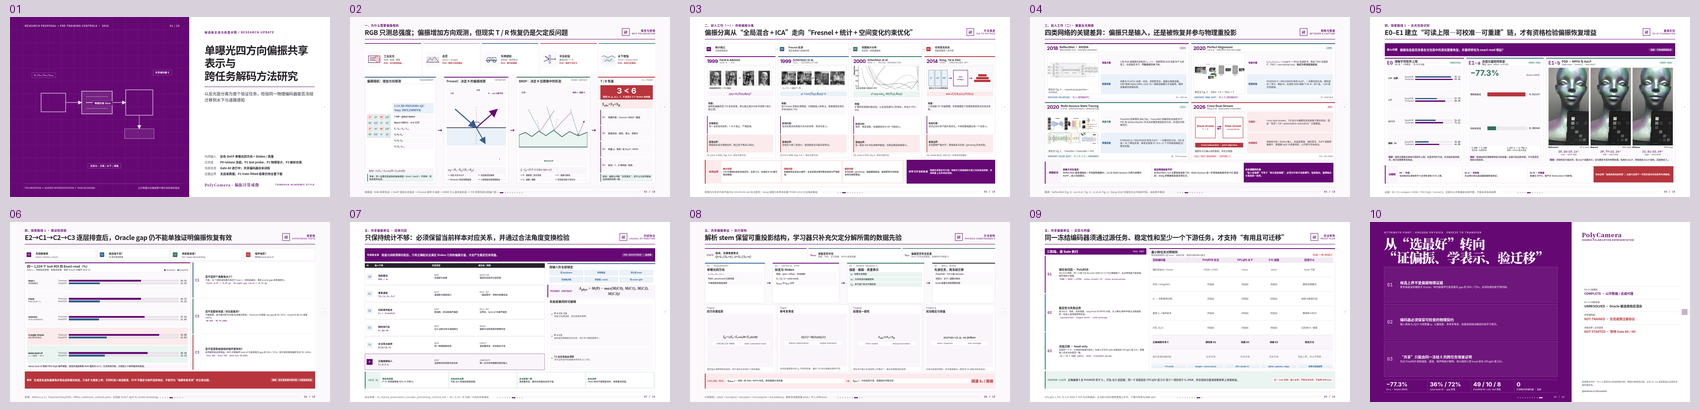
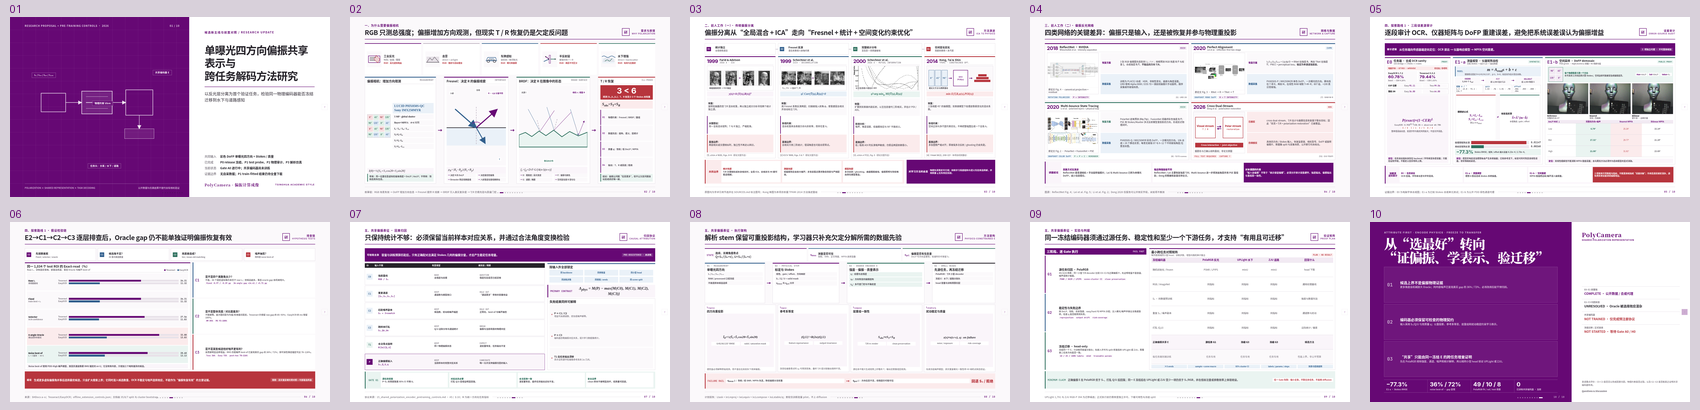
docs: reframe slide 5 as error audit

Changed region(s): [[0.8106, 0.1171, 0.9976, 0.439], [0.8106, 0.0585, 0.9976, 0.0878]]

diff --git a/demo/tsinghua-ppt/index.html b/demo/tsinghua-ppt/index.html
@@ -522,42 +522,83 @@
   .network-audit-item b{display:block;margin-bottom:.2vh;color:var(--accent);font-weight:800}
   .network-audit-item:last-child{background:var(--accent);color:#fff}.network-audit-item:last-child b{color:#fff}
 
-  /* 05 · 探索路线 1：E0–E1 基础链 */
-  .route1-foundation-layout{height:100%;display:grid;grid-template-columns:1fr;grid-template-rows:7.2vh minmax(0,1fr) 10.2vh;gap:.85vh}
-  .route1-question{display:grid;grid-template-columns:auto 1fr auto;gap:.75vw;align-items:center;padding:.72vh .72vw;background:var(--accent);color:#fff}
-  .route1-question strong{font:800 clamp(12px,.78vw,15px)/1.15 var(--mono);letter-spacing:.05em}
-  .route1-question span{font:700 clamp(14px,.92vw,18px)/1.3 var(--sans)}
+  /* 05 · 探索路线 1：任务端—仪器—DoFP 三段误差源审计 */
+  .route1-foundation-layout{height:100%;display:grid;grid-template-columns:1fr;grid-template-rows:6.9vh minmax(0,1fr) 9.8vh;gap:.82vh}
+  .route1-question{display:grid;grid-template-columns:auto 1fr auto;gap:.75vw;align-items:center;padding:.68vh .72vw;background:var(--accent);color:#fff}
+  .route1-question strong{font:800 clamp(11px,.73vw,14px)/1.15 var(--mono);letter-spacing:.05em}
+  .route1-question span{font:700 clamp(13px,.86vw,17px)/1.28 var(--sans)}
   .route1-question em{padding:.38vh .48vw;background:rgba(255,255,255,.14);font:750 clamp(10px,.66vw,12px)/1 var(--mono);font-style:normal;white-space:nowrap}
-  .route1-foundation-grid{min-height:0;display:grid;grid-template-columns:.92fr .9fr 1.5fr;gap:.72vw}
-  .foundation-card{min-height:0;display:grid;grid-template-rows:auto minmax(0,1fr) auto;gap:.55vh;padding:.72vh .65vw;border:1px solid var(--line);border-top:4px solid var(--accent);background:#fff}
+  .route1-foundation-grid{min-height:0;display:grid;grid-template-columns:.82fr 1.12fr 1.62fr;gap:.7vw}
+  .foundation-card{min-height:0;display:grid;grid-template-rows:auto minmax(0,1fr) auto;gap:.48vh;padding:.66vh .6vw;border:1px solid var(--line);border-top:4px solid var(--accent);background:#fff}
   .foundation-card:nth-child(2){border-top-color:var(--info)}.foundation-card:nth-child(3){border-top-color:var(--success)}
-  .foundation-head{display:grid;grid-template-columns:auto 1fr auto;gap:.5vw;align-items:center;padding-bottom:.42vh;border-bottom:1px solid var(--line)}
-  .foundation-head .id{color:var(--accent);font:800 clamp(21px,1.55vw,30px)/1 var(--mono)}
-  .foundation-head h2{font:750 clamp(14px,.9vw,18px)/1.15 var(--sans)}
-  .foundation-head p{margin-top:.18vh;color:var(--muted);font:650 clamp(9px,.61vw,11px)/1.15 var(--sans)}
-  .foundation-head .state{padding:.34vh .42vw;background:var(--success-soft);color:var(--success);font:800 clamp(9px,.59vw,11px)/1 var(--mono);white-space:nowrap}
-  .foundation-body{min-height:0;display:grid;align-content:stretch;gap:.52vh}
-  .mini-format-list{display:grid;grid-template-rows:repeat(4,1fr);gap:.38vh}
-  .mini-format-row{display:grid;grid-template-columns:4.7em 1fr;gap:.46vw;align-items:center;padding:.42vh .42vw;background:var(--paper-soft)}
-  .mini-format-row>strong{font:800 clamp(10px,.67vw,13px)/1 var(--mono);color:var(--ink)}
-  .mini-format-bars{display:grid;gap:.28vh}.mini-format-bar{display:grid;grid-template-columns:4.7em 1fr 3.3em;gap:.35vw;align-items:center;font:650 clamp(9px,.61vw,11px)/1 var(--sans);color:var(--muted)}
-  .mini-format-track{height:.75vh;min-height:6px;background:#eee9ef}.mini-format-fill{display:block;height:100%;background:var(--info)}.mini-format-fill.tess{background:var(--accent)}
-  .mini-format-value{text-align:right;color:var(--ink);font:750 clamp(9px,.61vw,11px)/1 var(--mono)}
-  .foundation-summary{padding:.55vh .48vw;background:var(--accent-pale);font:650 clamp(10px,.67vw,13px)/1.28 var(--sans);color:var(--ink-soft)}
+  .foundation-head{display:grid;grid-template-columns:auto 1fr auto;gap:.46vw;align-items:center;padding-bottom:.38vh;border-bottom:1px solid var(--line)}
+  .foundation-head .id{color:var(--accent);font:800 clamp(19px,1.38vw,27px)/1 var(--mono)}
+  .foundation-head h2{font:750 clamp(13px,.85vw,16px)/1.15 var(--sans)}
+  .foundation-head p{margin-top:.16vh;color:var(--muted);font:650 clamp(9px,.59vw,11px)/1.15 var(--sans)}
+  .foundation-head .state{padding:.32vh .38vw;background:var(--success-soft);color:var(--success);font:800 clamp(9px,.58vw,11px)/1 var(--mono);white-space:nowrap}
+  .foundation-body{min-height:0;display:grid;align-content:stretch;gap:.45vh}
+  .foundation-summary{padding:.5vh .44vw;background:var(--accent-pale);font:650 clamp(10px,.65vw,12px)/1.25 var(--sans);color:var(--ink-soft)}
   .foundation-summary strong{color:var(--accent)}
-  .e1a-error-chart{display:grid;grid-template-rows:auto 1fr auto;gap:.75vh;padding:.7vh .55vw;background:var(--paper-soft)}
-  .e1a-hero{display:grid;grid-template-columns:1fr auto;align-items:end;gap:.6vw}.e1a-hero strong{color:var(--success);font:800 clamp(30px,2.45vw,47px)/1 var(--sans-latin)}.e1a-hero span{padding-bottom:.2vh;color:var(--muted);font:700 clamp(10px,.67vw,13px)/1.2 var(--sans)}
-  .e1a-bar-group{display:grid;gap:.72vh}.e1a-bar{display:grid;grid-template-columns:7.3em 1fr 5.2em;gap:.45vw;align-items:center;font:700 clamp(10px,.67vw,13px)/1.1 var(--sans);color:var(--ink-soft)}
-  .e1a-track{height:2.15vh;background:#eee9ef}.e1a-fill{display:block;height:100%;background:var(--danger)}.e1a-fill.after{background:var(--success)}.e1a-value{text-align:right;font:800 clamp(12px,.78vw,15px)/1 var(--mono);color:var(--ink)}
-  .e1a-meta{display:grid;grid-template-columns:repeat(2,1fr);gap:.42vw}.e1a-meta span{padding:.48vh .4vw;background:#fff;font:650 clamp(9px,.61vw,11px)/1.22 var(--sans);color:var(--muted)}.e1a-meta b{display:block;color:var(--ink);font-family:var(--mono)}
-  .aolp-visuals{display:grid;grid-template-columns:repeat(3,1fr);gap:.4vw;min-height:0}
-  .foundation-card:nth-child(3) .foundation-body{grid-template-rows:minmax(0,1fr) auto}.foundation-card:nth-child(3) .aolp-visuals{height:100%}
-  .aolp-view{min-height:0;display:grid;grid-template-rows:minmax(0,1fr) auto;gap:.3vh}.aolp-view img{width:100%;height:100%;display:block;object-fit:cover;border:1px solid var(--line)}.aolp-view figcaption{display:flex;justify-content:space-between;gap:.3vw;font:700 clamp(9px,.61vw,11px)/1.15 var(--sans);color:var(--muted)}.aolp-view figcaption strong{color:var(--ink)}
-  .aolp-metrics{display:grid;grid-template-columns:repeat(3,1fr);gap:.38vw}.aolp-metric{padding:.46vh .42vw;background:var(--paper-soft);text-align:center}.aolp-metric strong{display:block;color:var(--accent);font:800 clamp(13px,.9vw,17px)/1 var(--mono)}.aolp-metric span{display:block;margin-top:.2vh;color:var(--muted);font:650 clamp(9px,.59vw,11px)/1.15 var(--sans)}
-  .foundation-decision{display:grid;grid-template-columns:auto repeat(3,1fr) auto;gap:.45vw;align-items:stretch;padding:.62vh .62vw;background:var(--accent-pale);border-left:4px solid var(--accent)}
-  .foundation-decision>strong{display:grid;place-items:center;padding:0 .35vw;color:var(--accent);font:800 clamp(11px,.72vw,14px)/1.15 var(--mono)}
-  .foundation-step{display:grid;align-content:center;padding:.45vh .45vw;background:#fff;font:650 clamp(10px,.67vw,13px)/1.25 var(--sans);color:var(--ink-soft)}.foundation-step b{display:block;margin-bottom:.18vh;color:var(--accent)}
-  .foundation-verdict{display:grid;align-content:center;padding:.5vh .55vw;background:var(--danger);color:#fff;font:750 clamp(10px,.67vw,13px)/1.28 var(--sans)}
+
+  .proxy-banner{display:flex;justify-content:space-between;gap:.35vw;padding:.42vh .42vw;background:var(--danger-soft);color:var(--danger);font:750 clamp(9px,.59vw,11px)/1.15 var(--sans)}
+  .ocr-audit-body{grid-template-rows:auto auto auto 1fr}
+  .ocr-overall{display:grid;grid-template-columns:1fr 1fr;gap:.38vw}
+  .ocr-kpi{padding:.55vh .42vw;background:var(--paper-soft)}
+  .ocr-kpi b{display:block;color:var(--ink);font:750 clamp(10px,.66vw,12px)/1.15 var(--sans)}
+  .ocr-kpi strong{display:block;margin-top:.24vh;color:var(--accent);font:800 clamp(18px,1.28vw,25px)/1 var(--sans-latin)}
+  .ocr-kpi span{display:block;margin-top:.22vh;color:var(--muted);font:650 clamp(9px,.58vw,11px)/1.15 var(--sans)}
+  .ocr-format-contrast{display:grid;gap:.34vh}
+  .ocr-format-row{display:grid;grid-template-columns:4.3em 1fr 1fr;gap:.28vw;align-items:center;padding:.42vh .4vw;background:#fff;border:1px solid var(--line);font:700 clamp(9px,.61vw,11px)/1.15 var(--sans)}
+  .ocr-format-row>strong{color:var(--ink)}.ocr-format-row span{padding:.28vh .28vw;background:var(--paper-soft);color:var(--muted);text-align:center}.ocr-format-row span b{color:var(--accent);font-family:var(--mono)}
+  .ocr-length-law{display:grid;place-items:center;align-content:center;gap:.4vh;padding:.52vh .45vw;background:var(--accent-pale);text-align:center}
+  .ocr-length-law .math{color:var(--accent);font:italic 650 clamp(17px,1.15vw,22px)/1.15 var(--equation)}
+  .ocr-length-law span{color:var(--muted);font:650 clamp(9px,.61vw,11px)/1.22 var(--sans)}
+  .ocr-length-law small{color:var(--ink-soft);font:750 clamp(9px,.59vw,11px)/1.18 var(--mono)}
+  .ocr-confusions{display:flex;flex-wrap:wrap;justify-content:center;gap:.25vw}.ocr-confusions b{padding:.26vh .3vw;background:#fff;color:var(--danger);font:800 clamp(9px,.58vw,11px)/1 var(--mono)}
+
+  .instrument-audit-body{grid-template-rows:auto auto auto minmax(0,1fr) auto auto}
+  .instrument-equation{display:grid;grid-template-columns:auto 1fr;gap:.5vw;align-items:center;padding:.55vh .5vw;background:var(--info-soft);border-left:3px solid var(--info)}
+  .instrument-equation strong{color:var(--info);font:800 clamp(9px,.62vw,12px)/1 var(--mono)}
+  .instrument-equation .math{color:var(--ink);font:italic 650 clamp(18px,1.25vw,24px)/1.15 var(--equation);text-align:center}
+  .instrument-equation small{display:block;margin-top:.18vh;color:var(--muted);font:650 clamp(9px,.58vw,11px)/1.15 var(--sans)}
+  .instrument-flow{display:grid;grid-template-columns:1fr auto 1fr auto 1fr;gap:.28vw;align-items:stretch}
+  .instrument-node{display:grid;align-content:center;padding:.42vh .36vw;background:var(--paper-soft);text-align:center}
+  .instrument-node b{display:block;color:var(--accent);font:800 clamp(9px,.61vw,12px)/1.1 var(--mono)}
+  .instrument-node span{display:block;margin-top:.2vh;color:var(--ink-soft);font:650 clamp(9px,.58vw,11px)/1.15 var(--sans)}
+  .instrument-arrow{display:grid;place-items:center;color:var(--accent);font:800 clamp(14px,.92vw,18px)/1 var(--sans)}
+  .instrument-params{display:grid;grid-template-columns:repeat(3,1fr);gap:.32vw}
+  .instrument-param{padding:.42vh .34vw;background:#fff;border:1px solid var(--line)}
+  .instrument-param b{display:block;color:var(--info);font:800 clamp(9px,.6vw,11px)/1 var(--mono)}
+  .instrument-param span{display:block;margin-top:.22vh;color:var(--ink-soft);font:650 clamp(9px,.57vw,10px)/1.16 var(--mono);overflow-wrap:anywhere}
+  .instrument-inverse-compare{display:grid;grid-template-columns:1fr auto 1fr;gap:.36vw;align-items:center;min-height:0;padding:.45vh .4vw;background:var(--paper-soft)}
+  .instrument-inverse-box{display:grid;align-content:center;gap:.32vh;height:100%;padding:.5vh .42vw;background:#fff;border-top:3px solid var(--danger)}.instrument-inverse-box.calibrated{border-top-color:var(--success)}
+  .instrument-inverse-box b{color:var(--ink);font:800 clamp(10px,.66vw,12px)/1.12 var(--sans)}
+  .instrument-inverse-box .math{color:var(--accent);font:italic 650 clamp(15px,1vw,19px)/1.15 var(--equation);text-align:center}
+  .instrument-inverse-box span{color:var(--muted);font:650 clamp(9px,.58vw,11px)/1.18 var(--sans);text-align:center}
+  .instrument-not-equal{color:var(--accent);font:800 clamp(17px,1.15vw,22px)/1 var(--equation)}
+  .e1a-bar-group{display:grid;align-content:center;gap:.55vh}.e1a-bar{display:grid;grid-template-columns:7.1em 1fr 5em;gap:.4vw;align-items:center;font:700 clamp(10px,.66vw,12px)/1.1 var(--sans);color:var(--ink-soft)}
+  .e1a-track{height:1.7vh;background:#eee9ef}.e1a-fill{display:block;height:100%;background:var(--danger)}.e1a-fill.after{background:var(--success)}.e1a-value{text-align:right;font:800 clamp(11px,.73vw,14px)/1 var(--mono);color:var(--ink)}
+  .e1a-meta{display:grid;grid-template-columns:auto 1fr;gap:.38vw;align-items:center;padding:.42vh .4vw;background:var(--success-soft)}
+  .e1a-meta strong{color:var(--success);font:800 clamp(20px,1.45vw,28px)/1 var(--sans-latin)}
+  .e1a-meta span{color:var(--ink-soft);font:650 clamp(9px,.6vw,11px)/1.2 var(--sans)}
+
+  .mpfa-audit-body{grid-template-rows:auto auto minmax(0,1fr) auto}
+  .mpfa-explainer{display:grid;grid-template-columns:auto 1fr auto;gap:.5vw;align-items:center;padding:.42vh .42vw;background:var(--success-soft)}
+  .mpfa-pattern{display:grid;grid-template-columns:repeat(2,2.2em);grid-template-rows:repeat(2,2.2em);border:1px solid var(--success)}
+  .mpfa-pattern span{display:grid;place-items:center;border:1px solid #fff;background:var(--accent-soft);color:var(--accent);font:800 clamp(9px,.6vw,11px)/1 var(--mono)}
+  .mpfa-explainer p{color:var(--ink-soft);font:650 clamp(9px,.61vw,11px)/1.22 var(--sans)}
+  .mpfa-explainer p b{display:block;margin-bottom:.18vh;color:var(--success)}
+  .aolp-encoding{display:grid;grid-template-columns:repeat(3,1fr);gap:.28vw}
+  .aolp-encoding span{padding:.3vh .28vw;background:#fff;color:var(--muted);text-align:center;font:750 clamp(9px,.59vw,11px)/1.15 var(--sans)}
+  .aolp-encoding b{color:var(--accent)}
+  .aolp-visuals{display:grid;grid-template-columns:repeat(3,1fr);gap:.38vw;min-height:0}
+  .aolp-view{min-height:0;display:grid;grid-template-rows:minmax(0,1fr) auto;gap:.26vh}.aolp-view img{width:100%;height:100%;display:block;object-fit:cover;border:1px solid var(--line)}.aolp-view figcaption{display:grid;gap:.12vh;font:700 clamp(9px,.59vw,11px)/1.12 var(--sans);color:var(--muted)}.aolp-view figcaption strong{color:var(--ink)}
+  .aolp-table th,.aolp-table td{padding:.3vh .34vw;text-align:center;font-size:clamp(9px,.61vw,11px);line-height:1.12}.aolp-table th:first-child,.aolp-table td:first-child{text-align:left}.aolp-table td.best{background:var(--success-soft);color:var(--success);font-weight:800}.aolp-table td.worst{background:var(--danger-soft);color:var(--danger)}
+
+  .foundation-decision{display:grid;grid-template-columns:auto repeat(3,1fr) 1.28fr;gap:.42vw;align-items:stretch;padding:.58vh .6vw;background:var(--accent-pale);border-left:4px solid var(--accent)}
+  .foundation-decision>strong{display:grid;place-items:center;padding:0 .32vw;color:var(--accent);font:800 clamp(10px,.69vw,13px)/1.15 var(--mono);text-align:center}
+  .foundation-step{display:grid;align-content:center;padding:.42vh .44vw;background:#fff;font:650 clamp(10px,.65vw,12px)/1.22 var(--sans);color:var(--ink-soft)}.foundation-step b{display:block;margin-bottom:.16vh;color:var(--accent)}
+  .foundation-verdict{display:grid;align-content:center;padding:.46vh .5vw;background:var(--danger);color:#fff;font:750 clamp(10px,.65vw,12px)/1.24 var(--sans)}
 
   /* 06 · E2 / C1–C3 假设检验链 */
   .hypothesis-chain-layout{height:100%;display:grid;grid-template-columns:1fr;grid-template-rows:7vh minmax(0,1fr) 9.5vh;gap:.85vh}
@@ -1084,21 +1125,16 @@
 </section>
 
 <section class="slide" data-layout="THU14" data-animate="academic" data-slide-id="route1-foundation">
-  <div class="thu-page"><header class="thu-header"><div><div class="thu-section">四、探索路线 1 · 反光包装识别</div><h1 class="thu-title">E0–E1 建立“可读上限—可校准—可重建”链，才有资格检验偏振恢复增益</h1></div><div class="thu-brand"><div class="thu-brand-mark">研</div><div class="thu-brand-copy"><strong>基础实验</strong><span>E0–E1 FOUNDATION</span></div></div></header>
+  <div class="thu-page"><header class="thu-header"><div><div class="thu-section">四、探索路线 1 · 三段误差源审计</div><h1 class="thu-title">逐段审计 OCR、仪器矩阵与 DoFP 重建误差，避免把系统误差误认为偏振增益</h1></div><div class="thu-brand"><div class="thu-brand-mark">研</div><div class="thu-brand-copy"><strong>误差审计</strong><span>ERROR-SOURCE AUDIT</span></div></div></header>
   <main class="thu-content tight"><div class="route1-foundation-layout quant-layout">
-    <div class="route1-question" data-anim><strong>核心问题</strong><span>偏振信息能否改善反光包装中的退化图像恢复，并最终转化为 exact-read 增益？</span><em>当前：只完成前提验证</em></div>
+    <div class="route1-question" data-anim><strong>审计逻辑</strong><span>从任务端向传感器端逆向定位：OCR 读出 → 仪器响应模型 → MPFA 空间重建。</span><em>3 项独立代理 · 不可直接相加</em></div>
     <div class="route1-foundation-grid" data-anim>
-      <article class="foundation-card"><div class="foundation-head"><span class="id">E0</span><div><h2>清晰字符软件上限</h2><p>900 张 · 4 种格式 · 双 OCR 后端</p></div><span class="state">COMPLETED</span></div><div class="foundation-body"><div class="mini-format-list">
-        <div class="mini-format-row"><strong>EXP 日期</strong><div class="mini-format-bars"><div class="mini-format-bar"><span>EasyOCR</span><span class="mini-format-track"><i class="mini-format-fill" style="width:95.11%"></i></span><span class="mini-format-value">95.11</span></div><div class="mini-format-bar"><span>Tesseract</span><span class="mini-format-track"><i class="mini-format-fill tess" style="width:99.56%"></i></span><span class="mini-format-value">99.56</span></div></div></div>
-        <div class="mini-format-row"><strong>LOT</strong><div class="mini-format-bars"><div class="mini-format-bar"><span>EasyOCR</span><span class="mini-format-track"><i class="mini-format-fill" style="width:57.78%"></i></span><span class="mini-format-value">57.78</span></div><div class="mini-format-bar"><span>Tesseract</span><span class="mini-format-track"><i class="mini-format-fill tess" style="width:80%"></i></span><span class="mini-format-value">80.00</span></div></div></div>
-        <div class="mini-format-row"><strong>BATCH</strong><div class="mini-format-bars"><div class="mini-format-bar"><span>EasyOCR</span><span class="mini-format-track"><i class="mini-format-fill" style="width:54.22%"></i></span><span class="mini-format-value">54.22</span></div><div class="mini-format-bar"><span>Tesseract</span><span class="mini-format-track"><i class="mini-format-fill tess" style="width:74.22%"></i></span><span class="mini-format-value">74.22</span></div></div></div>
-        <div class="mini-format-row"><strong>随机 SN</strong><div class="mini-format-bars"><div class="mini-format-bar"><span>EasyOCR</span><span class="mini-format-track"><i class="mini-format-fill" style="width:36%"></i></span><span class="mini-format-value">36.00</span></div><div class="mini-format-bar"><span>Tesseract</span><span class="mini-format-track"><i class="mini-format-fill tess" style="width:64%"></i></span><span class="mini-format-value">64.00</span></div></div></div>
-      </div></div><div class="foundation-summary"><strong>回答：</strong>固定日期格式具有可用软件上限；任意序列仍不足。先冻结包装码格式，再讨论图像恢复收益。</div></article>
-      <article class="foundation-card"><div class="foundation-head"><span class="id">E1-a</span><div><h2>合成仪器矩阵恢复</h2><p>角度 / gain / offset + σ=0.002</p></div><span class="state">PROXY PASS</span></div><div class="foundation-body"><div class="e1a-error-chart"><div class="e1a-hero"><strong>−77.3%</strong><span>Stokes RMSE</span></div><div class="e1a-bar-group"><div class="e1a-bar"><span>理想角假设</span><span class="e1a-track"><i class="e1a-fill" style="width:95.6%"></i></span><span class="e1a-value">0.01147</span></div><div class="e1a-bar"><span>仿射标定后</span><span class="e1a-track"><i class="e1a-fill after" style="width:21.7%"></i></span><span class="e1a-value">0.00260</span></div></div><div class="e1a-meta"><span><b>5,000 / 2,500</b>总样本 / 标定样本</span><span><b>4.23e−4 / 2.78e−4</b>矩阵 / offset 最大误差</span></div></div></div><div class="foundation-summary"><strong>回答：</strong>数值标定实现能够恢复已知误差；这里只验证软件链，不代表真实相机已经标定。</div></article>
-      <article class="foundation-card"><div class="foundation-head"><span class="id">E1-b</span><div><h2>PDD · MPFA 与 AoLP</h2><p>High noise · Scene12 · hue=AoLP</p></div><span class="state">PROXY PASS</span></div><div class="foundation-body"><div class="aolp-visuals"><figure class="aolp-view"><img src="images/05-e1b-aolp-gt.webp" data-image-slot="thu14-pdd-aolp-gt" alt="PDD Scene12 高噪声条件的参考 AoLP 可视化"><figcaption><strong>Reference</strong><span>GT 4-view</span></figcaption></figure><figure class="aolp-view"><img src="images/05-e1b-aolp-nearest.webp" data-image-slot="thu14-pdd-aolp-nearest" alt="PDD Scene12 最近邻 MPFA 重建后的 AoLP 可视化"><figcaption><strong>Nearest</strong><span>PDD High</span></figcaption></figure><figure class="aolp-view"><img src="images/05-e1b-aolp-bilinear.webp" data-image-slot="thu14-pdd-aolp-bilinear" alt="PDD Scene12 双线性 MPFA 重建后的 AoLP 可视化"><figcaption><strong>Bilinear</strong><span>PDD High</span></figcaption></figure></div><div class="aolp-metrics"><div class="aolp-metric"><strong>25.26→15.14°</strong><span>Low · AoLP MAE</span></div><div class="aolp-metric"><strong>29.77→21.24°</strong><span>Mid · AoLP MAE</span></div><div class="aolp-metric"><strong>31.81→23.69°</strong><span>High · AoLP MAE</span></div></div></div><div class="foundation-summary"><strong>回答：</strong>双线性优于最近邻，但 AoLP 误差仍大；去马赛克不是中性预处理。色相为 AoLP，饱和度由 DoLP 加权，亮度来自 S₀。</div></article>
+      <article class="foundation-card"><div class="foundation-head"><span class="id">E0</span><div><h2>任务端 · 合成 OCR sanity</h2><p>100 strings × 3 fonts × 3 sizes</p></div><span class="state">PROXY</span></div><div class="foundation-body ocr-audit-body"><div class="proxy-banner"><span>电脑字体 · GT ROI · whitelist</span><span>非实拍 / 非喷码</span></div><div class="ocr-overall"><div class="ocr-kpi"><b>EasyOCR 1.7.2</b><strong>60.78%</strong><span>Exact · CER 4.20%</span></div><div class="ocr-kpi"><b>Tesseract 5.5.3</b><strong>79.44%</strong><span>Exact · CER 1.83%</span></div></div><div class="ocr-format-contrast"><div class="ocr-format-row"><strong>EXP 日期</strong><span>Easy <b>95.11</b></span><span>Tess <b>99.56</b></span></div><div class="ocr-format-row"><strong>随机 SN</strong><span>Easy <b>36.00</b></span><span>Tess <b>64.00</b></span></div></div><div class="ocr-length-law"><div class="math">P(exact)≈(1−CER)<sup>L</sup></div><small>EasyOCR：0.958<sup>12.5</sup>≈58.5% ≈ observed 60.78%</small><div class="ocr-confusions"><b>O / 0</b><b>I / 1</b><b>S / 5</b><b>B / 8</b></div><span>整串错误由长度、易混字符与格式共同放大；不是光学误差。</span></div></div><div class="foundation-summary"><strong>定位：</strong>任务读出端本身存在 backend / 字符串复杂度误差；只能验证软件链，不能定义真实喷码上限。</div></article>
+      <article class="foundation-card"><div class="foundation-head"><span class="id">E1-a</span><div><h2>测量模型 · 仪器矩阵自检</h2><p>已知 Stokes → 估计 A,b → 留出恢复</p></div><span class="state">SYNTHETIC</span></div><div class="foundation-body instrument-audit-body"><div class="instrument-equation"><strong>MODEL</strong><div><div class="math">m = A<sub>real</sub>s + b + ε</div><small>理想假设固定 θ=0/45/90/135°、g=1、b=0；标定改为估计真实系数。</small></div></div><div class="instrument-flow"><div class="instrument-node"><b>KNOWN</b><span>5,000 个 S<sub>ref</sub></span></div><span class="instrument-arrow">→</span><div class="instrument-node"><b>FIT</b><span>前 2,500 估计 Â,b̂</span></div><span class="instrument-arrow">→</span><div class="instrument-node"><b>HOLDOUT</b><span>后 2,500 恢复 Ŝ</span></div></div><div class="instrument-params"><div class="instrument-param"><b>实际 θ / °</b><span>1.3 · 43.8 · 91.1 · 136.7</span></div><div class="instrument-param"><b>gain</b><span>1.03 · .96 · 1.01 · .98</span></div><div class="instrument-param"><b>offset</b><span>.006 · .003 · .008 · .004</span></div></div><div class="instrument-inverse-compare"><div class="instrument-inverse-box"><b>理想逆公式</b><div class="math">S₁=I₀−I₉₀<br>S₂=I₄₅−I₁₃₅</div><span>默认 A=A<sub>ideal</sub></span></div><span class="instrument-not-equal">≠</span><div class="instrument-inverse-box calibrated"><b>标定后反演</b><div class="math">Ŝ=Â<sup>+</sup>(m−b̂)</div><span>补偿角度 / gain / offset</span></div></div><div class="e1a-bar-group"><div class="e1a-bar"><span>按理想矩阵反演</span><span class="e1a-track"><i class="e1a-fill" style="width:95.6%"></i></span><span class="e1a-value">0.01147</span></div><div class="e1a-bar"><span>用标定矩阵反演</span><span class="e1a-track"><i class="e1a-fill after" style="width:21.7%"></i></span><span class="e1a-value">0.00260</span></div></div><div class="e1a-meta"><strong>−77.3%</strong><span>Stokes RMSE；矩阵 / offset 最大误差 4.23e−4 / 2.78e−4。</span></div></div><div class="foundation-summary"><strong>定位：</strong>把真实响应误当理想角会产生系统偏差；已知参考态下，标定代码可恢复该线性误差。非实物相机标定。</div></article>
+      <article class="foundation-card"><div class="foundation-head"><span class="id">E1-b</span><div><h2>空间采样 · DoFP demosaic</h2><p>PDD green · High/Scene12 单图 + 40 场景均值</p></div><span class="state">PUBLIC PROXY</span></div><div class="foundation-body mpfa-audit-body"><div class="mpfa-explainer"><div class="mpfa-pattern" aria-label="PDD 微偏振阵列 2×2 排列"><span>90°</span><span>45°</span><span>135°</span><span>0°</span></div><p><b>每个物理像素只测一个方向</b>补齐其余三方向后再计算 Stokes；空间边缘可能被误当成偏振差异。</p><div class="aolp-encoding"><span><b>Hue</b>=AoLP</span><span><b>Sat</b>=DoLP</span><span><b>Value</b>=S₀</span></div></div><div class="aolp-visuals"><figure class="aolp-view"><img src="images/05-e1b-aolp-gt.webp" data-image-slot="thu14-pdd-aolp-gt" alt="PDD Scene12 高噪声条件的参考 AoLP 伪彩色图"><figcaption><strong>Reference</strong><span>完整四方向 GT</span></figcaption></figure><figure class="aolp-view"><img src="images/05-e1b-aolp-nearest.webp" data-image-slot="thu14-pdd-aolp-nearest" alt="PDD Scene12 最近邻 MPFA 重建后的 AoLP 伪彩色图"><figcaption><strong>Nearest</strong><span>块状 / 伪偏振</span></figcaption></figure><figure class="aolp-view"><img src="images/05-e1b-aolp-bilinear.webp" data-image-slot="thu14-pdd-aolp-bilinear" alt="PDD Scene12 双线性 MPFA 重建后的 AoLP 伪彩色图"><figcaption><strong>Bilinear</strong><span>更平滑 · 边缘仍偏</span></figcaption></figure></div><table class="aolp-table" aria-label="PDD 40场景平均AoLP误差"><thead><tr><th>AoLP MAE ↓</th><th>完整四方向+噪声</th><th>Nearest MPFA</th><th>Bilinear MPFA</th></tr></thead><tbody><tr><td>Low</td><td class="best">6.74°</td><td class="worst">25.26°</td><td><strong>15.14°</strong></td></tr><tr><td>Mid</td><td class="best">17.31°</td><td class="worst">29.77°</td><td><strong>21.24°</strong></td></tr><tr><td>High</td><td class="best">21.06°</td><td class="worst">31.81°</td><td><strong>23.69°</strong></td></tr></tbody></table></div><div class="foundation-summary"><strong>定位：</strong>双线性缓解但不能消除 MPFA 插值误差；去马赛克方法必须作为后续模型的显式消融。</div></article>
     </div>
-    <div class="foundation-decision" data-anim><strong>证据链</strong><div class="foundation-step"><b>E0 · 可读</b>目标格式在清晰条件下必须有足够 OCR 上限。</div><div class="foundation-step"><b>E1-a · 可校准</b>先证明已知仪器误差能被数值恢复。</div><div class="foundation-step"><b>E1-b · 可重建</b>再量化 MPFA、噪声对 Stokes/AoLP 的影响。</div><div class="foundation-verdict">尚未证明“偏振改善包装恢复”；这里只证明下一步真实退化实验具有可测基础。</div></div>
-  </div></main><footer class="thu-footer"><span>证据：E0 / E1 compact JSON；PDD High / Scene12；全部为公开数据或合成代理，不是自采包装结果</span><span class="thu-footer-line"></span><span class="thu-page-no">05 / 10</span></footer></div>
+    <div class="foundation-decision" data-anim><strong>误差源<br>逆向审计</strong><div class="foundation-step"><b>E0 · 任务读出</b>OCR 后端、字符串长度与字符混淆。</div><div class="foundation-step"><b>E1-a · 测量模型</b>理想 A 假设造成 Stokes 系统偏差。</div><div class="foundation-step"><b>E1-b · 空间重建</b>MPFA 插值把边缘/噪声混入偏振量。</div><div class="foundation-verdict">三项使用不同数据与指标，不能直接相加成“误差份额”；作用是逐段锁定混杂，避免把系统误差讲成偏振增益。</div></div>
+  </div></main><footer class="thu-footer"><span>证据边界：E0 为电脑字体合成图；E1-a 为已知 Stokes 合成单元测试；E1-b 为公开 PDD 绿色通道代理</span><span class="thu-footer-line"></span><span class="thu-page-no">05 / 10</span></footer></div>
 </section>
 
 <section class="slide soft" data-layout="THU14" data-animate="academic" data-slide-id="route1-hypothesis-chain">
@@ -1170,7 +1206,7 @@ const SPEAKER_NOTES = [
   {id:'direction-change',title:'为什么需要偏振相机',section:'物理基础',minutes:1.8,purpose:'按“RGB 场景失效—DoFP 新观测—Fresnel 线索—BRDF 复杂度—T/R 欠定恢复”建立完整动机',talk:['顶部五类场景都包含总强度相似、光路成分不同的问题；RGB 很难判断光来自目标、界面还是散射','彩色 DoFP 以一次曝光获得 I0、I45、I90、I135，经标定重建 S0、S1、S2 与 DoLP/AoLP','Fresnel 说明反射偏振随入射角变化，Brewster 角附近线索最强；BRDF 又使这种线索随粗糙度和微法向空间变化','四方向理想情况下只有三个独立 Stokes 观测，而 T/R 两层至少有六个未知量，所以偏振增加约束但不保证唯一分解','方法必须结合物理重组、数据先验和质量 q，在饱和、低 DoLP 或 MPFA 失败时回退'],transition:'接着看传统方法如何逐步增加 Fresnel、统计与空间约束',cue:'按页面从上到下、从左到右讲：五场景 → 相机 → Fresnel → BRDF → 3<6'},
   {id:'classical-reflection-separation',title:'传统偏振反光分离演进',section:'问题与文献',minutes:1.7,purpose:'说明传统路线如何从全局 ICA 逐步加入 Fresnel、统计分布和空间变化约束',talk:['Farid 与 Adelson 将正交检偏图写成同一 T/R 的不同线性混合，并以 ICA 假设统计独立源','Schechner 1999 用 Fresnel 把混合权重绑定到玻璃入射角，通过重建层去相关估计角度','JOSA A 2000 以互信息处理双表面内部反射，并分析噪声、角度误差和入射平面歧义','Kong 2014 把入射角和入射平面扩展为空间变化系数场，再做多尺度约束优化','共同边界是先验失配；学习器应补充局部结构和语义先验，而不是丢掉物理重组和质量门控'],transition:'传统方法明确了可辨识条件，下一页比较深度网络恢复到哪一层物理量',cue:'按顶部约束轴从左到右讲四篇工作，最后落到统计、测量和模型失配'},
   {id:'polarized-reflection-networks',title:'偏振反光网络与采集方案',section:'问题与文献',minutes:1.7,purpose:'同口径比较偏振输入、强度/偏振恢复层级与采集方案',talk:['ReflectNet 用旋转偏振片顺序采集三角度，最终恢复 RGB 强度 T/R，不恢复逐角偏振层','Lei 2020 使用单色 DoFP 单曝光四方向，先估计强度 R 再估计强度 T，并以黑布 M−R 方案采集真值','Multi-bounce 使用彩色 DoFP，逐角预测 polarized T/R，再以 Stokes/Mueller 多次反射模型重投影四方向','Deng 2026 只确认 cross dual-stream、T/R 与 polarization restoration 方向；输入、监督、相机和数据仍待全文核查','输入含偏振不等于输出保留物理；后续方法必须报告采集硬件、输出层级和重投影一致性'],transition:'文献说明“偏振网络”不能只看输入标签，下面回顾路线 1 的可测前提'},
-  {id:'route1-foundation',title:'探索路线 1 · E0–E1 基础链',section:'探索路线 1',minutes:1.0,purpose:'用软件上限、合成标定与 PDD 重建误差建立反光包装识别的可测前提',talk:['E0 表明固定 EXP 日期格式的软件上限接近可用，但随机序列明显不足，所以任务格式必须先冻结','E1-a 将合成 Stokes RMSE 从 0.01147 降到 0.00260，只证明数值标定实现自洽','E1-b 表明双线性 MPFA 重建优于最近邻，但 Low/Mid/High 的 AoLP MAE 仍为 15.14/21.24/23.69 度','因此这一页只证明可读、可校准、可重建，不证明偏振已经改善包装恢复'],transition:'有了测量前提后，下一页检验 E2 的 Oracle gap 究竟来自偏振还是选择效应'},
+  {id:'route1-foundation',title:'探索路线 1 · 三段误差源审计',section:'探索路线 1',minutes:1.3,purpose:'从任务读出、仪器响应和 DoFP 空间重建三段逆向定位偏振系统中的独立误差源',talk:['这不是把三项百分比相加的统一误差预算；E0、E1-a、E1-b 使用不同数据与指标，作用是逐段锁定混杂因素','E0 是电脑字体、GT ROI 与字符白名单下的软件 sanity：EasyOCR 的 CER 只有 4.20%，但字符串长度和易混字符会把整串 Exact 放大到 60.78%，它不是实拍喷码上限','E1-a 把测量写成 m=Areal·s+b+ε；用已知合成 Stokes 的前 2,500 组估计 A,b，再在留出的 2,500 组反演，RMSE 从理想矩阵的 0.01147 降到 0.00260','E1-b 模拟 2×2 MPFA 每像素只测一个方向，再比较完整四方向、最近邻和双线性；伪彩图中色相是 AoLP、饱和度是 DoLP、亮度是 S0','双线性减轻但没有消除空间插值误差，所以 OCR backend、标定矩阵和 demosaic 都必须冻结或进入后续消融，不能被模型增益吸收'],transition:'三段测量链误差被显式化后，下一页继续检验 E2 的 Oracle gap 是否只是候选数量、图像统计和噪声选择效应',cue:'按左到右讲三段误差源；E1-b 先指 2×2 排列，再读伪彩图图例和 40 场景均值表'},
   {id:'route1-hypothesis-chain',title:'E2–C3 假设检验链',section:'探索路线 1',minutes:0.9,purpose:'从 fixed–oracle 差距出发，依次排查候选数量、图像统计和噪声选择效应',talk:['四方向 Oracle 高于固定 I0，但 confidence selector 只兑现很少，说明上界不等于部署收益','36 个固定虚拟角没有优于 raw I0，候选数增加却会机械放大 Oracle gap','强度匹配后 gap 仍在，所以整体亮度和对比度不是主要解释','同内容噪声 best-of 已复现真实 gap 的 36% 和 72%，证明没有新内容也会产生选择增益','因此不能用“生成更多角再选最好”证明偏振恢复有效'],transition:'既然候选选择不可归因，下一页改用只破坏一个因素的匹配干预来定义偏振证据',cue:'先读左侧五组柱状条，再按右侧 C1、C2、C3 逐层排除解释'},
   {id:'polarization-attribution',title:'真实偏振的因果归因协议',section:'共享偏振表征',minutes:1.2,purpose:'用匹配输入干预区分当前样本偏振信息与通道数、噪声、统计偏差和角度坐标系',talk:['C0 到 C3 不是随意喂错误图片，而是依次保持强度、通道数、噪声或 Q/U 边际分布，只破坏一个待验证因素','最关键的是跨样本打乱 Q/U：总体数值统计仍在，但与当前场景的物理对应关系被破坏','T1 是合法零点旋转，不应导致任务输出变化；它与非物理通道交换必须区分','所有输入使用同 backbone、参数、head、训练步数、增强、seeds 和 scene split','只有正确偏振优于全部对照、打乱后回落且合法旋转通过，才允许把增量归因于偏振'],transition:'归因协议说明要比较什么，下一页说明编码器内部必须保留什么物理结构',cue:'先讲 C3，再回看 C0–C2，最后读底部 Gate G1'},
   {id:'physics-constrained-encoder',title:'物理约束共享编码器',section:'共享偏振表征',minutes:1.2,purpose:'定义解析 stem、双质量变量、共享表示和四类可验证约束',talk:['主输入使用 S0、Q、U，避免直接输入低 DoLP 区不稳定的裸 AoLP','q_meas 表示测量是否可信，q_pol 表示偏振是否有信息量；高 DoLP 但饱和与低 DoLP 但强度可信必须区分','编码器分出强度表示 zI、方向等变偏振表示 zP 和质量门控 zq，再连接小型任务头','重投影约束防止网络丢掉四方向物理，参考系等变约束角度几何，层重组约束源任务解释观测','扰动稳定先用冻结噪声模型；真实重复曝光只能在 H0 相机试采后验证，当前不冒充已有结果'],transition:'有了方法结构后，下一页给出怎样训练、怎样冻结、什么结果才算有用'},

diff --git a/demo/tsinghua-ppt/speech-script.md b/demo/tsinghua-ppt/speech-script.md
@@ -1,7 +1,7 @@
 # 周汇报演讲稿（对应 HTML PPT 10 页）
 
 - **主题：** 单曝光四方向偏振共享表示与跨任务解码方法研究。
-- **计划时长：** 演讲者备注合计 11.7 分钟，建议实际控制在 13–14 分钟。
+- **计划时长：** 演讲者备注合计 12.0 分钟，建议实际控制在 13–14 分钟。
 - **证据边界：** 第 5–6 页来自公开数据与合成代理；第 7–9 页是预注册协议和拟执行架构，不是训练结果；没有自采结果。
 - **用法：** 普通段落可直接讲；页面中的 `PLAN / NOT TRAINED` 状态必须明确念出。
 
@@ -13,7 +13,7 @@
 | 2 | 为什么需要偏振相机 | 1.8 | RGB 不足→方向观测→Fresnel/BRDF→T/R 仍欠定 |
 | 3 | 传统偏振反光分离 | 1.7 | ICA→Fresnel→互信息→空间变化约束优化 |
 | 4 | 偏振反光网络与采集 | 1.7 | 偏振输入不等于输出仍保留可验证物理 |
-| 5 | 探索路线 1：E0–E1 | 1.0 | 先证明可读、可校准、可重建，尚未证明恢复有效 |
+| 5 | 三段误差源审计 | 1.3 | OCR、仪器矩阵与 DoFP 重建是三类独立混杂，不能直接相加 |
 | 6 | E2–C3 假设检验链 | 0.9 | 更多候选与事后最优不能证明偏振恢复有效 |
 | 7 | 真实偏振归因协议 | 1.2 | 保持统计、破坏对应关系的干预才有归因力 |
 | 8 | 物理约束编码器 | 1.2 | S₀/Q/U + 双质量 q + 四类可验证约束 |
@@ -66,17 +66,17 @@ Deng 2026 已能确认的是 cross dual-stream、T/R 估计和 polarization info
 
 这四篇工作的核心启发是：输入中有偏振信息，不等于输出仍保留可验证的偏振物理。后续方法必须分别报告采集硬件、强度 T/R、偏振 T/R 和四方向重投影一致性。
 
-## 第 5 页 · 探索路线 1：E0–E1 基础链
+## 第 5 页 · 三段误差源逆向审计
 
-探索路线 1 是反光包装识别，最终问题是偏振能否改善退化图像恢复，并把恢复收益转成 exact-read。但在回答它之前，要先建立三项前提。
+这一页不再表述为三个顺序通过的 Gate，而是从任务端向传感器端逆向审计三类独立误差源。它们使用不同数据和指标，因此不能把 60.78%、77.3% 和 23.69 度直接相加成一个统一误差预算；作用是先定位混杂，再判断后续增益能否归因于偏振。
 
-E0 检查软件上限。900 张无反光清晰合成图中，固定 EXP 日期格式的 EasyOCR 和 Tesseract exact 分别达到 95.11% 和 99.56%；随机序列只有 36% 和 64%。因此第一项结论不是“偏振有效”，而是必须先冻结一种真实包装码格式和喷码工艺，否则恢复结果无法解释。
+E0 位于任务读出端。数据是 100 个字符串用三种电脑字体、三种字号生成的 900 张合成图，提供 GT ROI 和字符白名单，不是实拍喷码。EasyOCR 的 Exact 为 60.78%，但 CER 只有 4.20%；按平均 12.5 个字符计算，`0.958^12.5≈58.5%`，说明低 Exact 主要由字符串长度、易混字符和严格整串判定共同放大。它只证明 OCR 与评测链可运行，不能定义真实喷码上限。
 
-E1-a 检查标定软件链。在 5,000 个合成样本中加入真实角度偏差、gain、offset 和 0.002 噪声，再用一半样本标定，Stokes RMSE 从 0.01147 降到 0.00260，下降 77.3%。这说明数值实现可以恢复已知仪器误差，但不等于真实相机已经标定。
+E1-a 位于偏振测量模型。合成观测满足 `m=A_real·s+b+ε`：四通道实际角度设为 1.3、43.8、91.1、136.7 度，并加入各自 gain、offset 和 0.002 噪声。前 2,500 个已知 Stokes 状态用于估计仪器矩阵与偏置，后 2,500 个作为留出测试。直接套用理想公式 `S1=I0−I90、S2=I45−I135` 的 RMSE 为 0.01147；改用标定矩阵伪逆后为 0.00260，下降 77.3%。这证明标定代码能消除人为加入的线性系统误差，不代表实物相机已标定。
 
-E1-b 检查 MPFA 重建。右侧用 PDD High 的 Scene12 展示 AoLP：色相表示 AoLP，饱和度由 DoLP 加权，亮度来自 S0。双线性比最近邻更平滑，整体统计也更好，但 Low、Mid、High 的 AoLP MAE 仍有 15.14、21.24 和 23.69 度。因此去马赛克不能被当成无误差预处理。
+E1-b 位于 DoFP 空间重建。2×2 微偏振阵列中每个物理像素只测一个方向，必须插值其余三个方向后才能计算 Stokes。右侧伪彩图中色相表示 AoLP、饱和度表示 DoLP、亮度表示 S0；Reference 是完整四方向 GT，Nearest 出现块状与伪偏振，Bilinear 更平滑但边缘仍有偏差。下面的 40 场景均值进一步区分了纯噪声与 MPFA 插值：Low 条件下完整四方向为 6.74 度，最近邻恶化到 25.26 度，双线性降到 15.14 度。因此去马赛克不是中性预处理，必须进入后续模型消融。
 
-这一页只证明后续实验“可读、可校准、可重建”，并没有证明偏振已经改善反光包装恢复。
+这一页支持的是“误差源逐段可测、可控制”，尚未证明偏振改善了反光恢复或 OCR。
 
 ## 第 6 页 · E2–C3 假设检验链
 

diff --git a/demo/tsinghua-ppt/images/SOURCES.md b/demo/tsinghua-ppt/images/SOURCES.md
@@ -32,7 +32,7 @@
 
 第 4 页 Deng et al. 2026 卡片为本项目根据论文题名、出版元数据和已核实的 cross dual-stream / T-R / polarization-restoration 方向重绘，不是论文原图。由于没有开放全文或代码，卡片明确保留输入表示、恢复监督、相机、采集方式、数据集和场景等未知字段。
 
-第 5 页 `05-e1b-aolp-{gt,nearest,bilinear}.webp` 由公开 PDD 2025 的 `High/Scene12` 四方向 PNG 生成：使用项目冻结的绿色通道、MPFA 排列 `[[90,45],[135,0]]`、最近邻/3×3 normalized bilinear 和 `linear_stokes`。可视化中色相表示 AoLP、饱和度为 `clip(4×DoLP)`、亮度为共享尺度的 S₀。它是本项目派生的定性示意，页面报告的 31.81°/23.69° 是 High 40 场景的聚合 MAE，不是 Scene12 单图指标。
+第 5 页 `05-e1b-aolp-{gt,nearest,bilinear}.webp` 由公开 PDD 2025 的 `High/Scene12` 四方向 PNG 生成：使用项目冻结的绿色通道、MPFA 排列 `[[90,45],[135,0]]`、最近邻/3×3 normalized bilinear 和 `linear_stokes`。可视化中色相表示 AoLP、饱和度为 `clip(4×DoLP)`、亮度为共享尺度的 S₀。三张图只是单场景定性示意；其下 Low/Mid/High 表格为每档 40 场景的平均 AoLP MAE，并同时列出完整四方向带噪声、Nearest MPFA 与 Bilinear MPFA，不能把表中数字解释为 Scene12 单图误差。
 
 ## 本项目原创示意图
 
@@ -50,7 +50,7 @@ BRDF 图均为 HTML/CSS/无文字 SVG 的本项目原创机制示意，不是相
 | 2 | 五类 RGB 失效场景、彩色偏振相机、Stokes、Fresnel、microfacet BRDF 与 T/R 欠定 | LUCID Phoenix PHX050S-QC 产品资料、Sony IMX250MYR / Polarsens 资料、`05_polarization_camera_physical_models.md`、Born & Wolf *Principles of Optics*、Cook–Torrance / Walter 等 microfacet 模型、Schechner / ReflectNet 的半反射层模型；所有图为机制示意，4×4 单元非芯片实际相位图 |
 | 3 | Farid–Schechner–Kong 的传统偏振 T/R 分离演进、共同边界及对学习先验的启发 | 上述三张论文图节选；Farid & Adelson, JOSA A 1999；Schechner et al., ICCV 1999 / JOSA A 2000；Kong et al., TPAMI 2014；方法口径同步见 `polar_representation/LITERATURE.md` |
 | 4 | ReflectNet、Lei 2020、Multi-bounce 与 Deng 2026 的偏振/强度恢复层级及采集方案 | 上述三张论文架构图；对应 ECCV 2018、CVPR 2020、ECCV 2020 原文；Deng et al. 2026 仅使用出版元数据与已核实方向，具体输入、监督和采集字段按“待全文核查”处理；完整审计见 `polar_representation/LITERATURE.md` |
-| 5 | 探索路线 1 的 E0 清晰识读上限、E1-a 合成仪器恢复与 E1-b PDD AoLP 可视化 | `e0_clean_code_sanity.json`、`e1_synthetic_instrument_recovery.json`、`e1_pdd_simple_baselines.json`；上述 PDD High/Scene12 派生图 |
+| 5 | 从任务读出、仪器响应到 DoFP 重建的三段误差源审计：E0 合成 OCR sanity、E1-a 已知 Stokes 仪器矩阵自检、E1-b PDD MPFA/AoLP 误差 | `e0_clean_code_sanity.json`、`e1_synthetic_instrument_recovery.json`、`e1_pdd_simple_baselines.json`；三段使用不同数据与指标，页面明确禁止直接相加为统一“误差份额” |
 | 6 | E2、C1、C2、C3 假设检验链及 Raw I₀ / Fixed / Selector / Oracle / Noise best-of 柱状对照 | `e0_e2_shdocs_easyocr_scale4.json`、`e0_e2_shdocs_tesseract_scale4.json`、`industrial_reading/evidence/offline_extension_controls.json`；Noise best-of 使用 m=1 像素 RMS 锚点 |
 | 7 | C0–C3 匹配输入干预、合法角度零点旋转与偏振归因 Gate G1 | `15_shared_polarization_encoder_pretraining_controls.md` A5、§10.5；该页为预注册协议，没有训练结果 |
 | 8 | `S₀/Q/U` 解析 stem、`q_meas/q_pol`、共享编码器与重投影/等变/重组/稳定约束 | `15_shared_polarization_encoder_pretraining_controls.md` §10.2–10.3；`05_polarization_camera_physical_models.md` |
